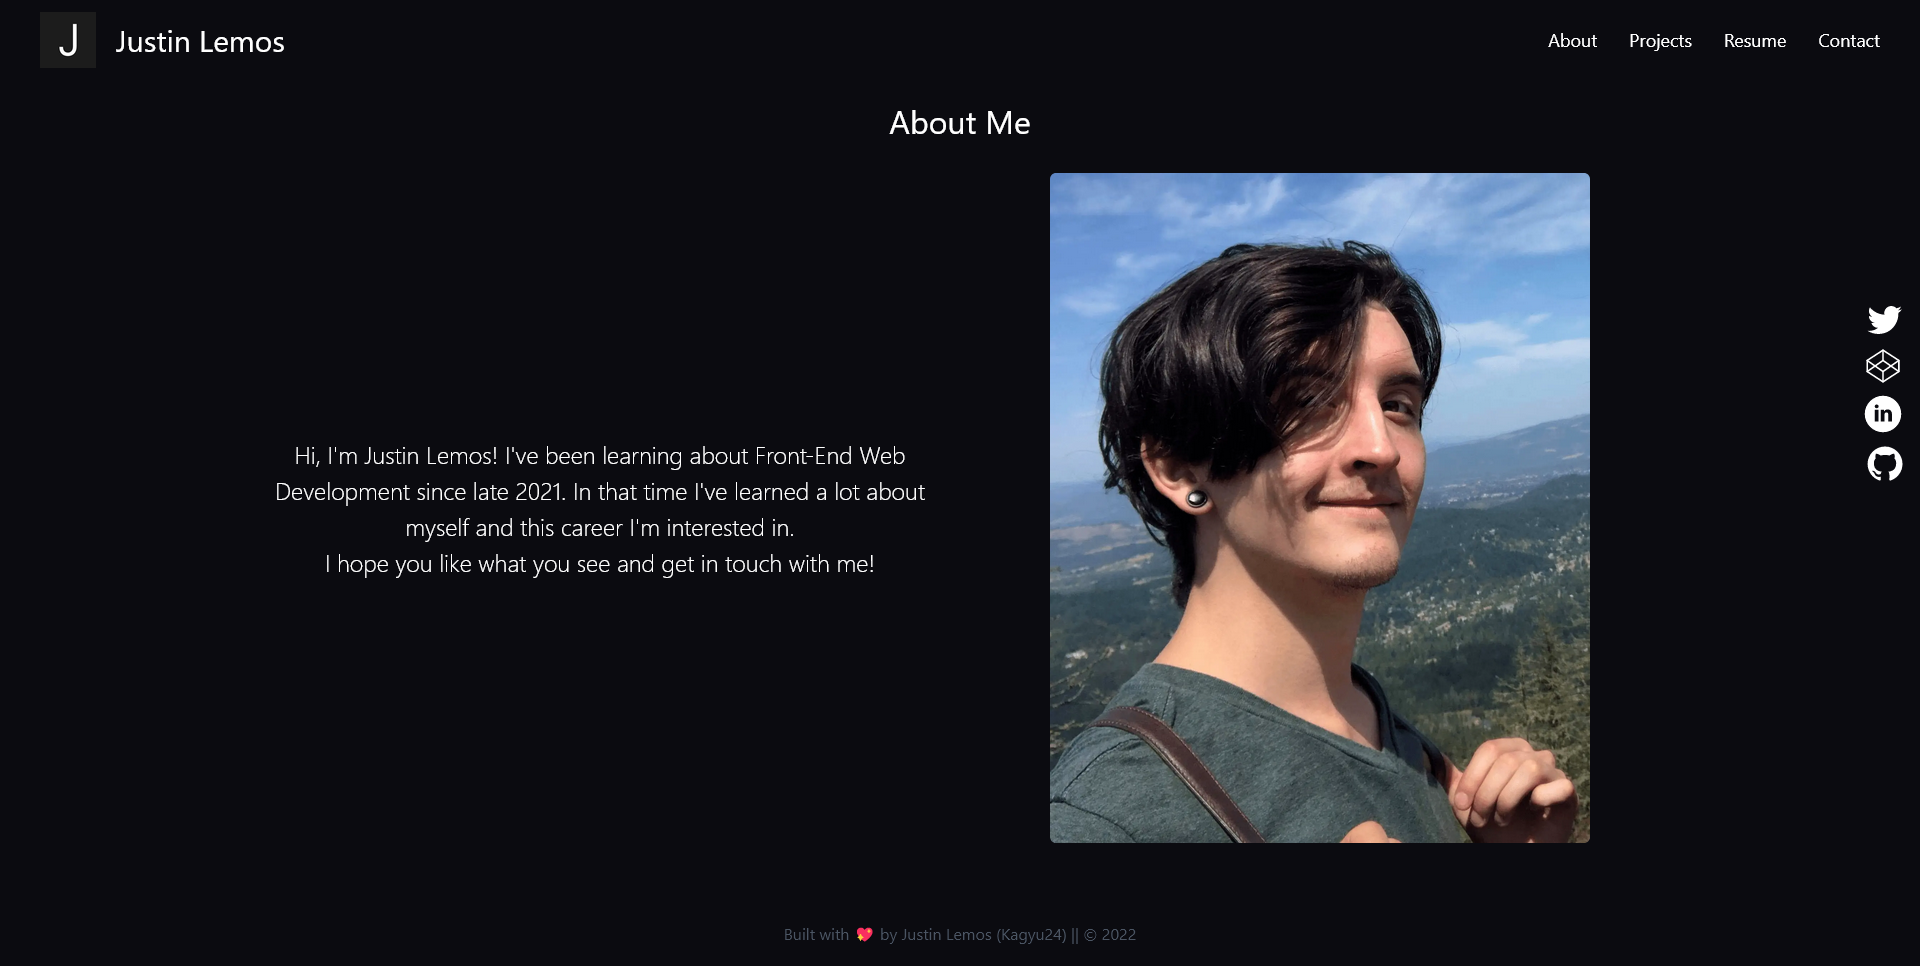
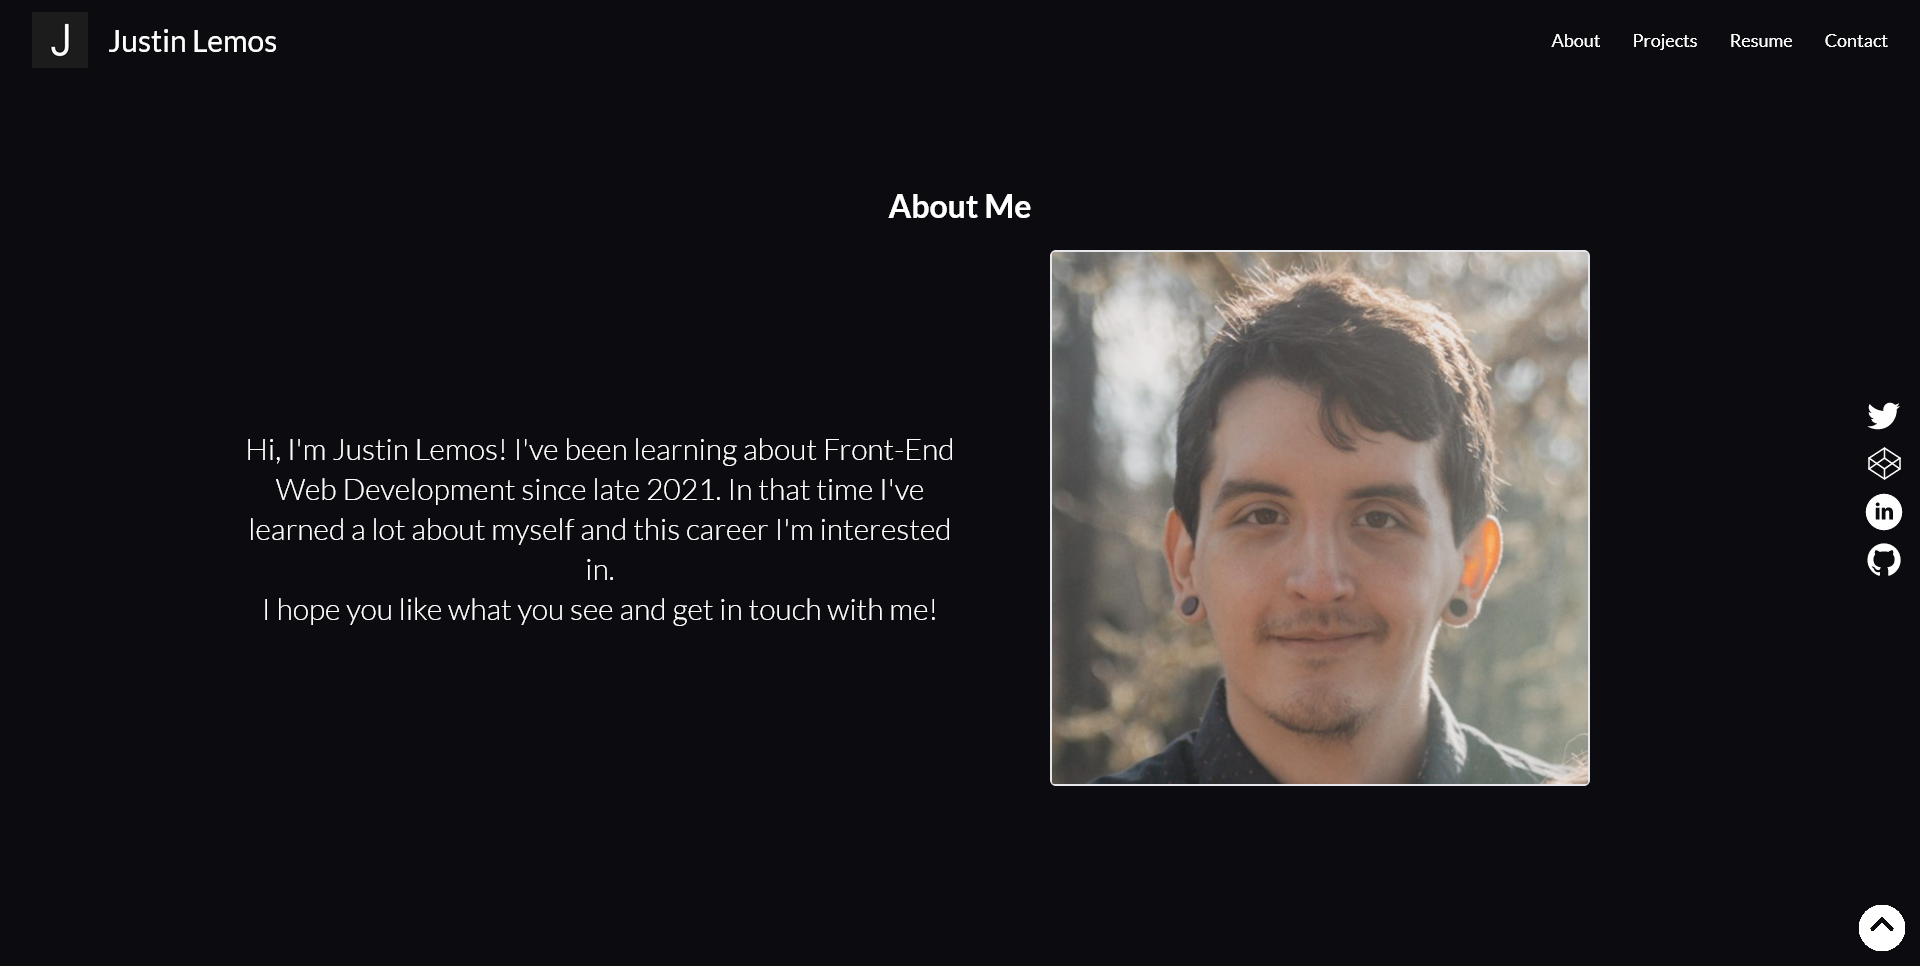
Forgot to change mobile nav defaults

diff --git a/src/components/Navbar.js b/src/components/Navbar.js
@@ -41,7 +41,7 @@ const Navbar = () => {
           <img src={Logo} alt="/" />
         </div>
         <a
-          href="/"
+          href="#about"
           className="text-2xl sm:text-3xl hover:text-[#537DAC] transition-all"
         >
           Justin Lemos
@@ -52,9 +52,11 @@ const Navbar = () => {
         onChange={setOpened}
         classNames={classes}
         position="bottom"
-        offset={20}
+        offset={11}
         shadow="xl"
         width="100vw"
+        transition="fade"
+        transitionDuration={250}
         withArrow
       >
         <Menu.Target>
@@ -67,11 +69,21 @@ const Navbar = () => {
         </Menu.Target>
 
         <Menu.Dropdown>
-          <Menu.Item>Settings</Menu.Item>
+          <Menu.Item component="a" href="#about">
+            About
+          </Menu.Item>
           <Menu.Divider />
-          <Menu.Item>Messages</Menu.Item>
+          <Menu.Item component="a" href="#projects">
+            Projects
+          </Menu.Item>
           <Menu.Divider />
-          <Menu.Item>Gallery</Menu.Item>
+          <Menu.Item component="a" href={PDF} download="JLemosResume.pdf">
+            Resume
+          </Menu.Item>
+          <Menu.Divider />
+          <Menu.Item component="a" href="#contact">
+            Contact
+          </Menu.Item>
         </Menu.Dropdown>
       </Menu>
       <ul

diff --git a/src/Pages/Projects.js b/src/Pages/Projects.js
@@ -18,7 +18,7 @@ export const Projects = () => {
         transition={{ delay: 1, duration: 0.7 }}
         animate={{ translateX: 0, opacity: 1 }}
       >
-        <h1 className="font-semibold mb-[-12rem] sm:mb-[-12rem] lg:mb-[-12rem]">
+        <h1 className="font-semibold mb-[-14rem] sm:mb-[-10rem] lg:mb-[-12rem]">
           Projects
         </h1>
         <h2 className="text-xl mb-[-10rem] sm:mb-[-9rem] lg:mb-[-10rem] border-b-[1px] p-2">
@@ -146,7 +146,7 @@ export const Projects = () => {
                   My own personal website
                 </h2>
               </div>
-              <h3>React | Tailwind CSS | Framer Motion</h3>
+              <h3>React | Tailwind CSS | Framer Motion | Mantine UI</h3>
             </motion.div>
           </motion.a>
           <motion.a

diff --git a/src/Pages/About.js b/src/Pages/About.js
@@ -1,5 +1,5 @@
 import React from "react";
-import Me from "../assets/projects/Me1.webp";
+import Me from "../assets/images/ProfilePic.webp";
 import { motion } from "framer-motion";
 
 export const About = () => {
@@ -30,7 +30,7 @@ flex-col
 justify-center
 items-center"
         >
-          <h1 className="font-semibold">About Me</h1>
+          <h1 className="font-semibold mb-5">About Me</h1>
           <div
             className=" w-3/4
   flex
@@ -55,7 +55,8 @@ items-center"
   md:leading-10
   justify-center
   items-center
-  text-center"
+  text-center
+  mt-5"
             >
               <p>
                 Hi, I'm Justin Lemos! I've been learning about Front-End Web
